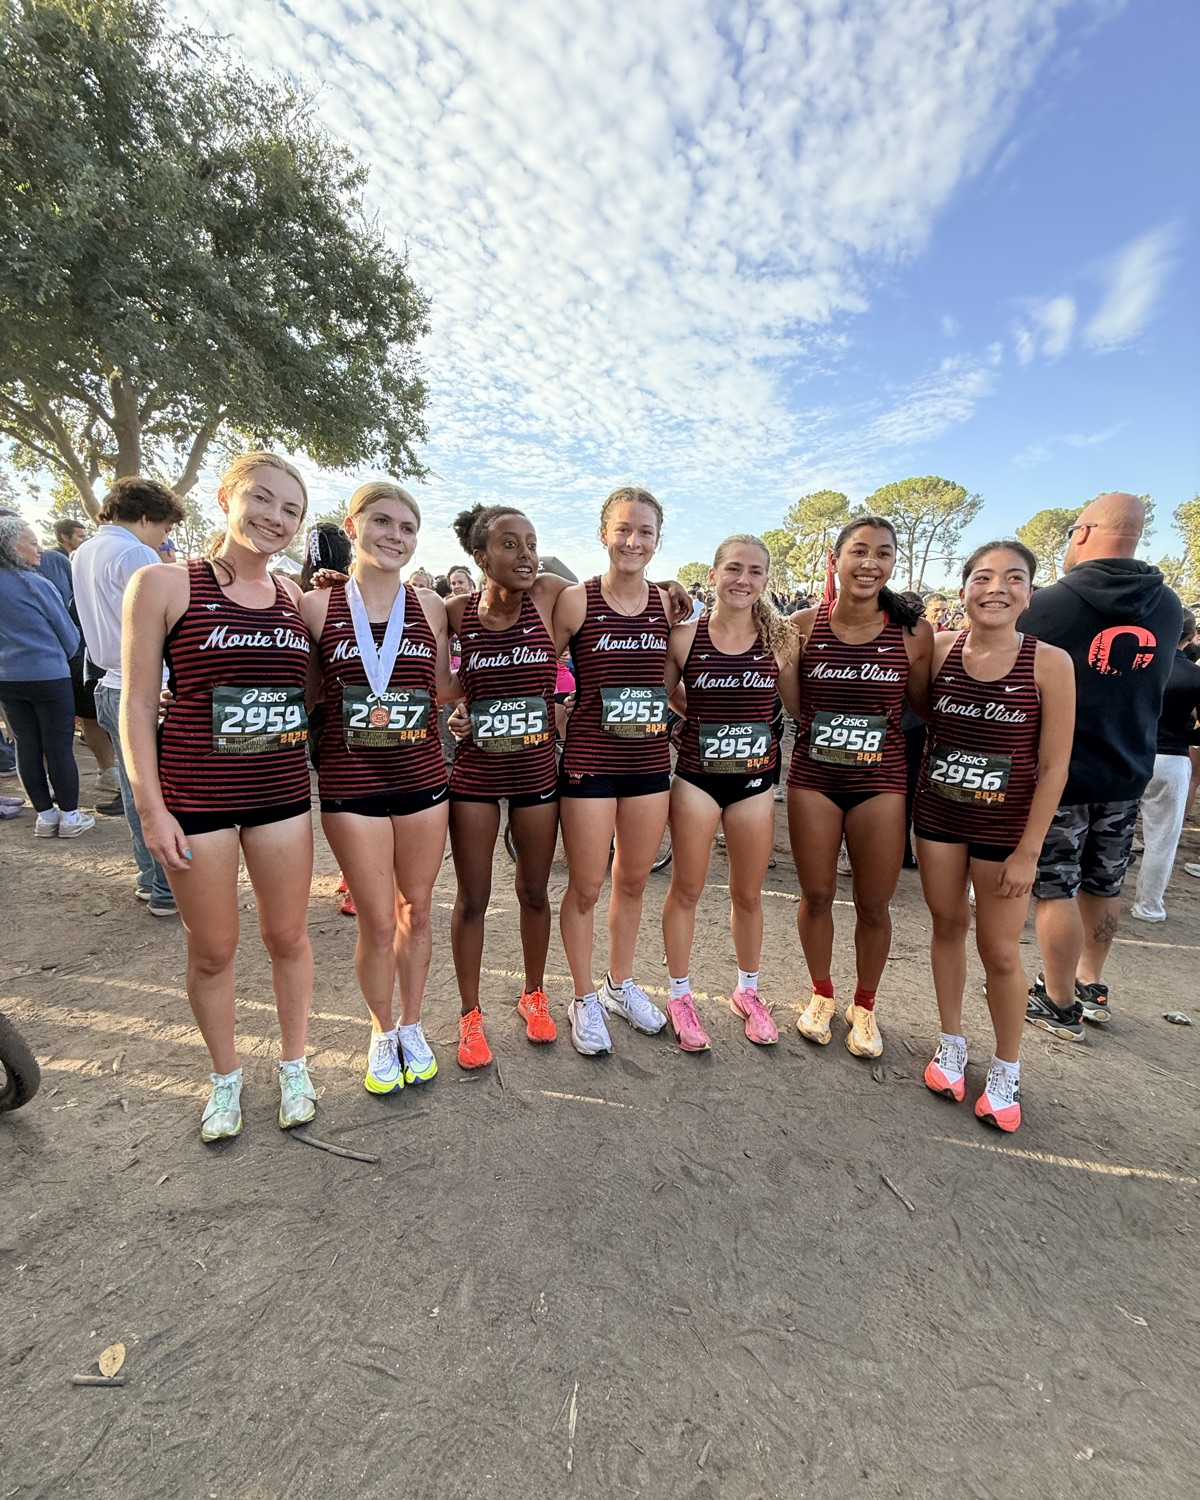
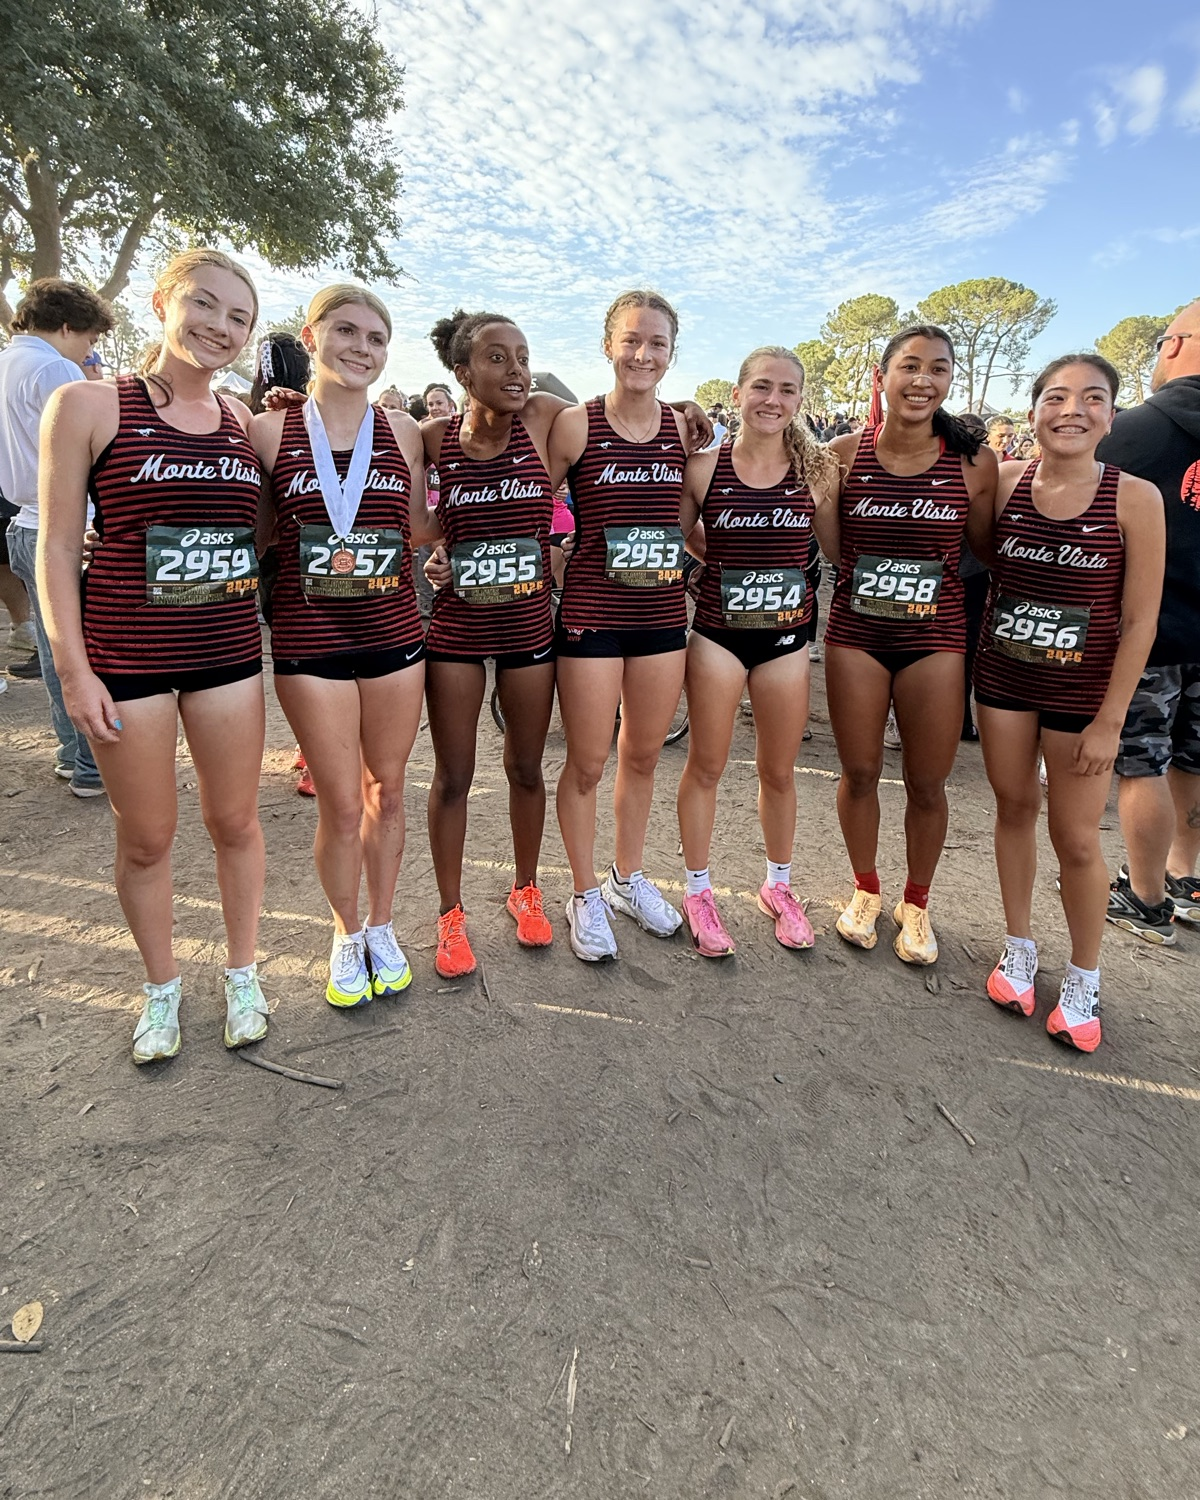
Clovis girls hero: tighter phone crops
The phone versions are now a 2560 x 3200 region of the upright original
(x 224, y 694) instead of the full width from y 86. The seven girls fill
94% of the frame's width instead of 79%, and the lowest chin sits 30%
down instead of 41.5%: 68px above the text band at 360px wide (was
17px), 51px above where a three-line caption's band would start (it
touched it), 143px at 390. Display P3 profile kept, metadata stripped
losslessly.

README: phone file sizes, the crop note, off the re-cut list.

diff --git a/README.md b/README.md
@@ -211,7 +211,7 @@ All the items sit in the same place, so the block is as tall as the tallest one 
 | Loughery & Miller | 483 KB | 246 KB | 246 KB |
 | Hurdles | 534 KB | 255 KB | 255 KB |
 | Shot put | 317 KB | 169 KB | 169 KB |
-| Clovis | 819 KB (was 1.6 MB) | 335 KB | 701 KB |
+| Clovis | 819 KB (was 1.6 MB) | 352 KB | 731 KB |
 | Woodbridge | 1.16 MB | 317 KB | 777 KB |
 | Makarova (NCS MoC 2026) | 615 KB | 197 KB | 455 KB |
 | O'Connell (NCS 2025) | 711 KB | 251 KB | 524 KB |
@@ -222,15 +222,14 @@ All the items sit in the same place, so the block is as tall as the tallest one 
 
 If you change a row's `focus`, recut its phone version (and a portrait's band) to match, or phones and computers will show different parts of the photo.
 
-**The full-height crop is the default, but a phone crop may be tightened when it would otherwise leave the subject small or close to the headline band.** Take a smaller 4:5 region of the original (still at least 1200px wide, so the 1200px version isn't enlarged) that makes the runner larger and puts the face higher, and check it with the longest caption it will carry: on a phone 390px wide a three-line caption starts the band about 56% of the way down the frame. **Below about 380px wide the two buttons wrap onto two rows and the band is taller**: a three-line caption starts it about 43% down at 375px (iPhone SE, 12/13 mini) and 41% at 360px (many Android phones), so check at 360px too. (At 384px and wider the buttons sit side by side.) The two Padilla photos are cut this way (October 2026): the 4x800 from a 1440 × 1800 region and the 800m from a 2000 × 2500 region, which puts her face about 30% down the phone frame, about 120px above a three-line caption's band, instead of 42% and 46% with the full-height crop (which also left empty sky above her in the 4x800). The NCS 2026 finish is cut this way too (November 2026), from a 1200 × 1500 region at x = 440, y = 880 of the 2000 × 3000 original: the pair fills half the frame's width instead of 30%, and their faces sit 21–32% down instead of 39–45%, clear of a three-line caption's band by 43px at 360px wide, 117px at 390 and 150px at 430 (the full-height crop put their chins 19px inside the band at 360). These phone versions no longer follow the `across` focal point; the `focus` column still sets the desktop view.
+**The full-height crop is the default, but a phone crop may be tightened when it would otherwise leave the subject small or close to the headline band.** Take a smaller 4:5 region of the original (still at least 1200px wide, so the 1200px version isn't enlarged) that makes the runner larger and puts the face higher, and check it with the longest caption it will carry: on a phone 390px wide a three-line caption starts the band about 56% of the way down the frame. **Below about 380px wide the two buttons wrap onto two rows and the band is taller**: a three-line caption starts it about 43% down at 375px (iPhone SE, 12/13 mini) and 41% at 360px (many Android phones), so check at 360px too. (At 384px and wider the buttons sit side by side.) The two Padilla photos are cut this way (October 2026): the 4x800 from a 1440 × 1800 region and the 800m from a 2000 × 2500 region, which puts her face about 30% down the phone frame, about 120px above a three-line caption's band, instead of 42% and 46% with the full-height crop (which also left empty sky above her in the 4x800). The NCS 2026 finish is cut this way too (November 2026), from a 1200 × 1500 region at x = 440, y = 880 of the 2000 × 3000 original: the pair fills half the frame's width instead of 30%, and their faces sit 21–32% down instead of 39–45%, clear of a three-line caption's band by 43px at 360px wide, 117px at 390 and 150px at 430 (the full-height crop put their chins 19px inside the band at 360). The Clovis girls were re-cut the same way (November 2026), from a 2560 × 3200 region at x = 224, y = 694 of the upright 3024 × 4032 frame, instead of the full width from y = 86: the seven girls fill 94% of the frame's width instead of 79%, with about 75px of the original to spare at each side, and the lowest chin (the girl on the right) sits 30% down instead of 41.5%. At 360px that's 68px above the band with its two-line caption (it was 17px) and 51px above where a three-line caption's band would start (it touched it); 80px at 375, 143px at 390, 177px at 430. These phone versions no longer follow the `across` focal point; the `focus` column still sets the desktop view.
 
-**To re-cut (checked November 2026 at 360px, each photo with its own caption):** two track photos, before track season, since only then do they rotate, and one cross country photo that's marginal now.
+**To re-cut (checked November 2026 at 360px, each photo with its own caption):** two track photos, before track season, since only then do they rotate.
 
 - **Makarova, 3200m** (`hero-2026-05-22-track-ncs-moc-3200m-makarova.jpg`): her face is behind the band. With its three-line caption the band starts 41% down, and the line of small text above the headline runs across her chin; the headline crosses both runners.
 - **Hurdles** (`2022-04-23-track-hurdles.jpg`): the faces are clear by about 40px, but the hurdle bars and lead legs, the clearance itself, sit under the small text and the headline. The top fifth of its phone frame is empty sky.
-- **Clovis girls** (`hero-2026-10-10-xc-clovis-girls.jpg`), marginal: the girls' chins are about 30px above the band with its two-line caption, and a three-line caption would cut that to about 10px. It's in the cross country rotation now.
 
-The other eight clear the band at 360px: O'Connell 2025 by about 35px, the two Padilla photos and Woodbridge by 40–45px, the NCS 2026 finish by 43px, Kotamraju 2025 by about 50px, the shot put by about 75px, and Loughery & Miller with their faces in the top fifth of the frame.
+The other nine clear the band at 360px: the Clovis girls since their re-cut (above), O'Connell 2025 by about 35px, the two Padilla photos and Woodbridge by 40–45px, the NCS 2026 finish by 43px, Kotamraju 2025 by about 50px, the shot put by about 75px, and Loughery & Miller with their faces in the top fifth of the frame.
 
 **Focal points, and why.** The shot put is at `0%` down because the shot is at the very top edge of the photo; anything lower cuts off the release. The hurdles photo is at `55%`, as low as it can go without cutting the hurdlers' heads at 1920px. Clovis is at `34%`: all seven girls in frame with heads uncut at every width. Woodbridge is at `28%`: both runners' faces in the upper half at every width. The NCS 2026 finish is at `44%`: both faces in the upper half at every width and the joined hands clear of the top edge at 1920px; at `42%` the faces sat at the middle of a 1920px screen, where the caption band starts.
 
